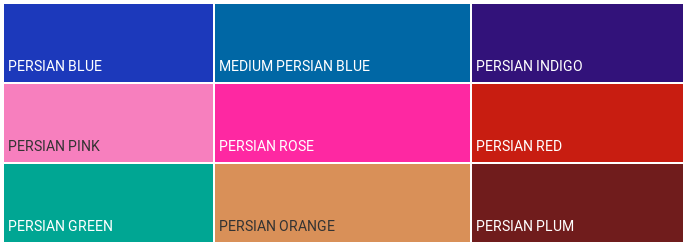
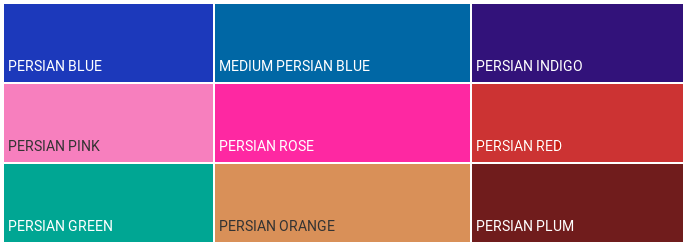
added matlab compatible variables and colormap
use get_persian_colors.m once if a new color is added or a color value
is changed in scss file wich is used to generate matlab files.

for enduser persian_colors.m or persian_colormap.mat is sufficient.

readme.md is updated accordingly

Changed region(s): [[0.6725, 0.3401, 1.0, 0.6802]]

diff --git a/persian-colors.scss b/persian-colors.scss
@@ -3,7 +3,7 @@ $MediumPersianBlue : #0067a5;
 $PersianIndigo     : #32127a;
 $PersianPink       : #f77fbe;
 $PersianRose       : #fe28a2;
-$PersianRed        : #c81d11;
+$PersianRed        : #cc3333;
 $PersianGreen      : #00a693;
 $PersianOrange     : #d99058;
 $PersianPlum       : #701c1c;

diff --git a/persian-colors.css b/persian-colors.css
@@ -4,7 +4,7 @@
   --PersianIndigo     : #32127a;
   --PersianPink       : #f77fbe;
   --PersianRose       : #fe28a2;
-  --PersianRed        : #c81d11;
+  --PersianRed        : #cc3333;
   --PersianGreen      : #00a693;
   --PersianOrange     : #d99058;
   --PersianPlum       : #701c1c;

diff --git a/get_persian_colors.m b/get_persian_colors.m
@@ -1,0 +1,19 @@
+opts = delimitedTextImportOptions("NumVariables", 2);
+opts.DataLines = [1, Inf];
+opts.Delimiter = [" ", ":"];
+opts.VariableNames = ["Name", "Value"];
+opts.VariableTypes = ["string", "string"];
+opts.ExtraColumnsRule = "ignore";
+opts.EmptyLineRule = "read";
+opts.ConsecutiveDelimitersRule = "join";
+opts = setvaropts(opts, ["Name", "Value"], "WhitespaceRule", "preserve");
+opts = setvaropts(opts, ["Name", "Value"], "EmptyFieldRule", "auto");
+colors = readtable("persian-colors.scss", opts);
+persian_colormap = (sscanf(join(colors.Value),'#%2x%2x%2x; ',[3,height(colors)]).' / 255);
+save("persian_colormap.mat","persian_colormap")
+fID = fopen("persian_colors.m","w");
+for i = 1:height(colors)
+    fprintf(fID,"%s=",extractAfter(colors(i,:).Name,1));
+    fprintf(fID,"[%g,%g,%g];\n",sscanf(colors(i,:).Value,'#%2x%2x%2x',[3,1]).' / 255);
+end
+fclose(fID);

diff --git a/persian_colors.m b/persian_colors.m
@@ -1,0 +1,9 @@
+PersianBlue=[0.109804,0.223529,0.733333];
+MediumPersianBlue=[0,0.403922,0.647059];
+PersianIndigo=[0.196078,0.0705882,0.478431];
+PersianPink=[0.968627,0.498039,0.745098];
+PersianRose=[0.996078,0.156863,0.635294];
+PersianRed=[0.8,0.2,0.2];
+PersianGreen=[0,0.65098,0.576471];
+PersianOrange=[0.85098,0.564706,0.345098];
+PersianPlum=[0.439216,0.109804,0.109804];

diff --git a/README.md b/README.md
@@ -17,7 +17,7 @@ These are colors whose various tones have long been used in Persian carpets, pot
   --PersianIndigo     : #32127a;
   --PersianPink       : #f77fbe;
   --PersianRose       : #fe28a2;
-  --PersianRed        : #c81d11;
+  --PersianRed        : #cc3333;
   --PersianGreen      : #00a693;
   --PersianOrange     : #d99058;
   --PersianPlum       : #701c1c;
@@ -32,8 +32,29 @@ $MediumPersianBlue : #0067a5;
 $PersianIndigo     : #32127a;
 $PersianPink       : #f77fbe;
 $PersianRose       : #fe28a2;
-$PersianRed        : #c81d11;
+$PersianRed        : #cc3333;
 $PersianGreen      : #00a693;
 $PersianOrange     : #d99058;
 $PersianPlum       : #701c1c;
+```
+
+
+## As Matlab Virables
+
+```matlab
+PersianBlue=[0.109804,0.223529,0.733333];
+MediumPersianBlue=[0,0.403922,0.647059];
+PersianIndigo=[0.196078,0.0705882,0.478431];
+PersianPink=[0.968627,0.498039,0.745098];
+PersianRose=[0.996078,0.156863,0.635294];
+PersianRed=[0.784314,0.113725,0.0666667];
+PersianGreen=[0,0.65098,0.576471];
+PersianOrange=[0.85098,0.564706,0.345098];
+PersianPlum=[0.439216,0.109804,0.109804];
+```
+
+or you can set the default color order
+``` matlab
+load("persian_colormap.mat","persian_colormap");
+set(0,DefaultAxesColorOrder=persian_colormap);
 ```
